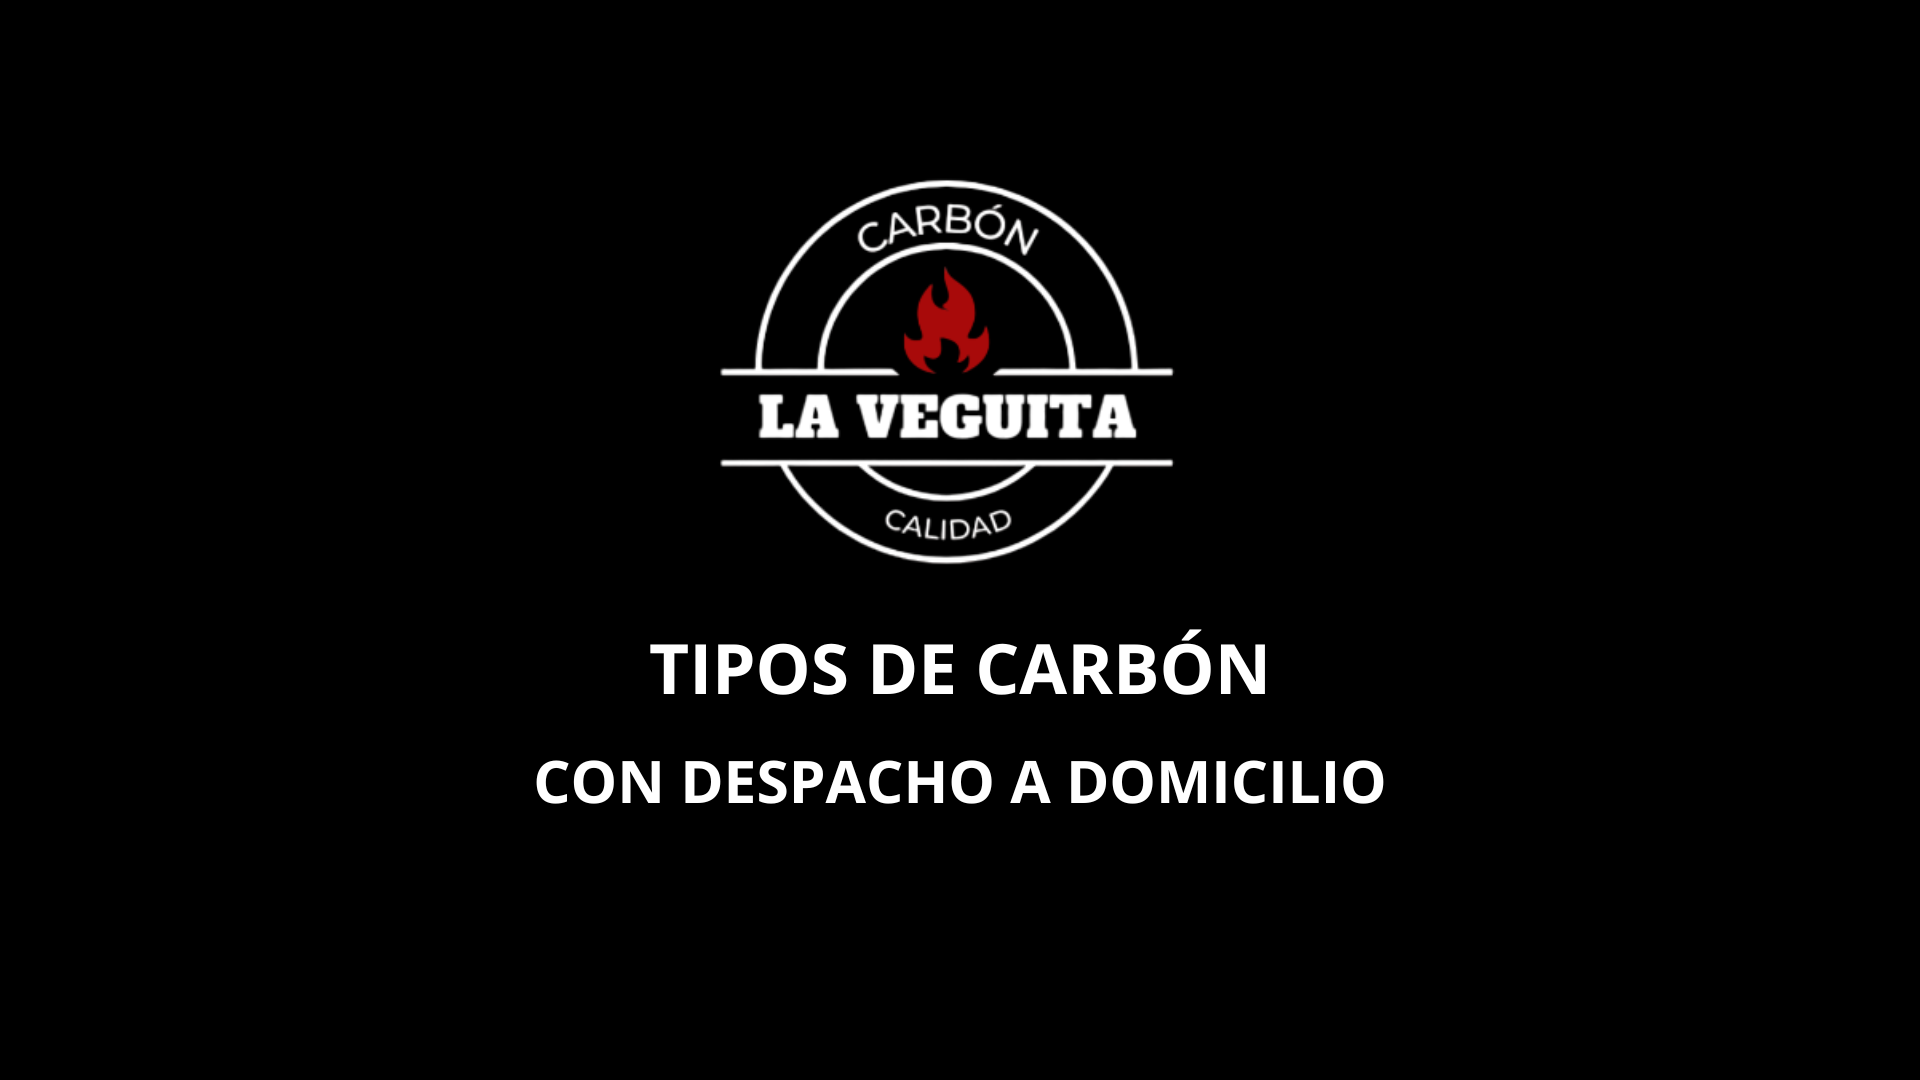
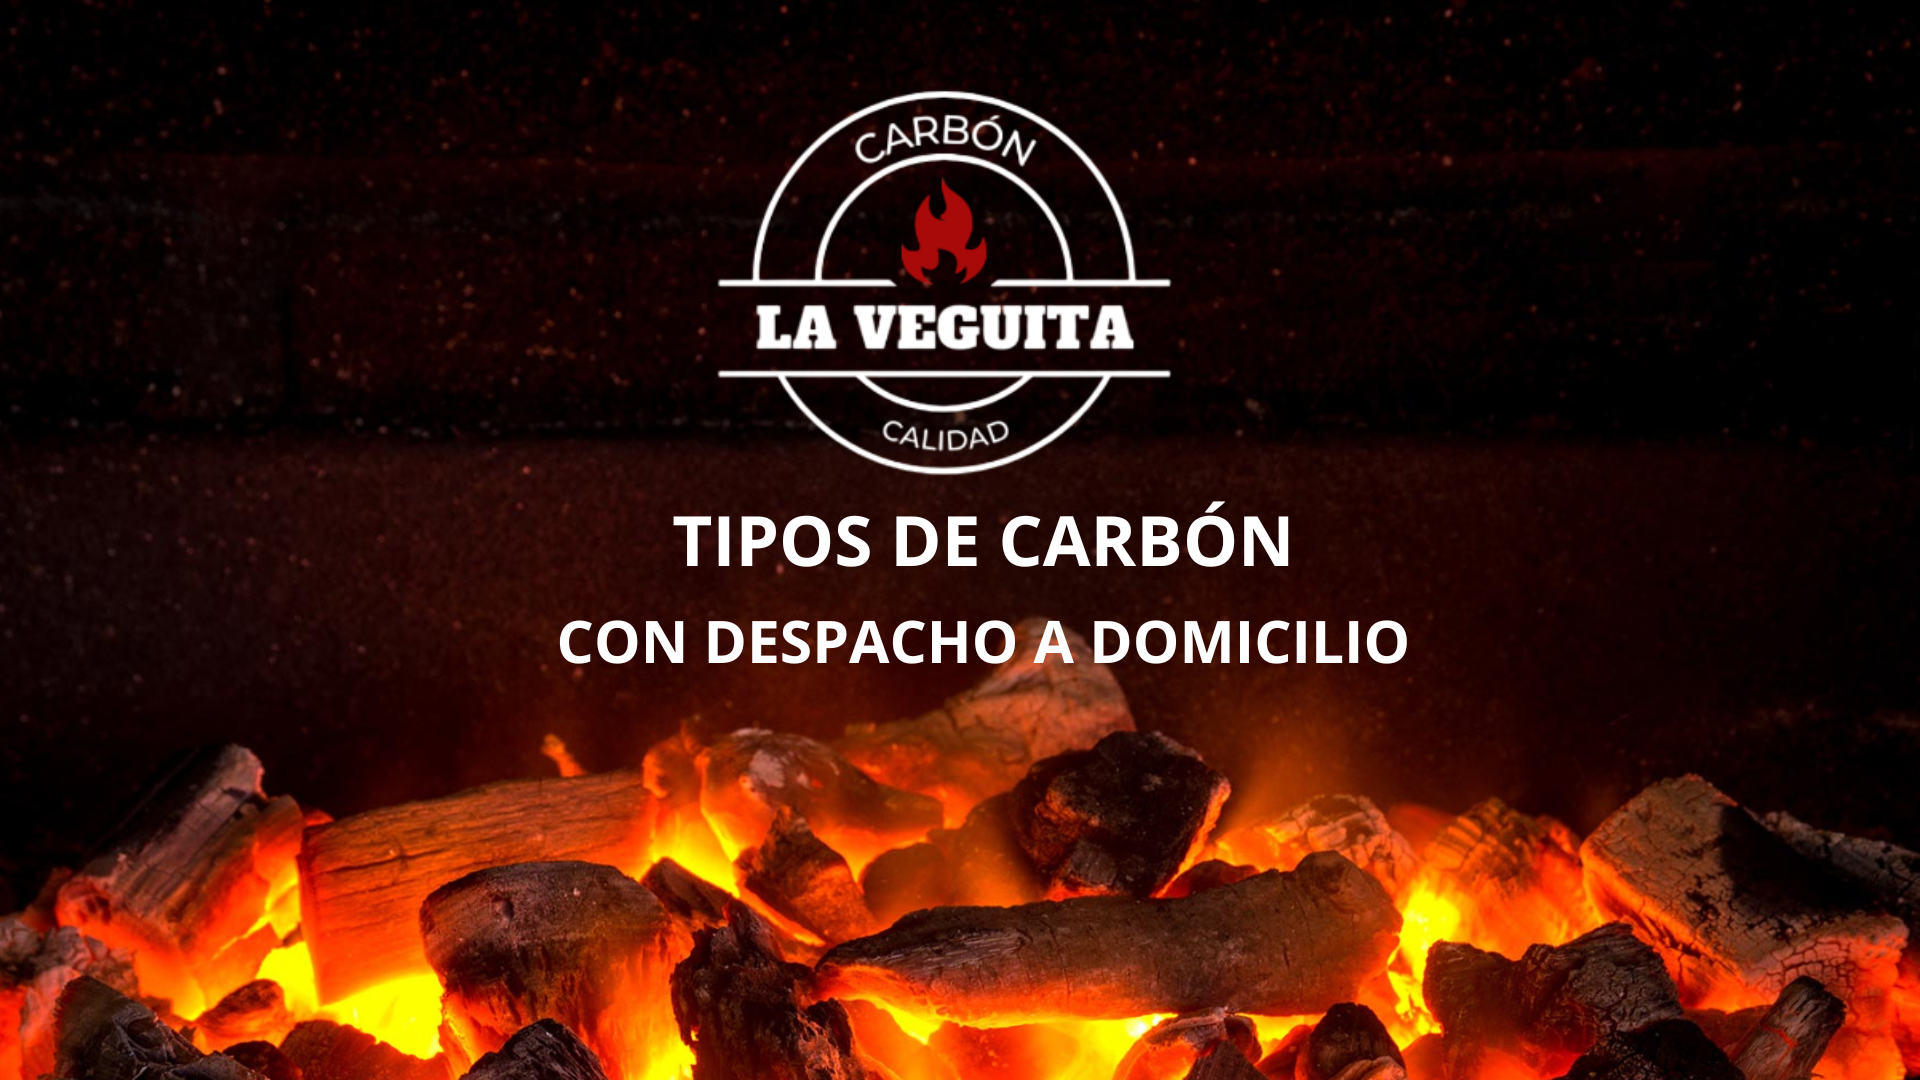
12 arreglo

diff --git a/css/style.css b/css/style.css
@@ -26,7 +26,7 @@ body {
   height: auto; 
 }
 
-/* Responsive styles */
+/* MEDIA QUERIE NAVBAR*/
 @media (max-width: 600px) {
   .main-navbar {
     padding: 10px 0; 
@@ -64,7 +64,7 @@ body {
 
 
 
-
+/* IMAGEN TIPOS DE CARBÓN */
 
 
 
@@ -78,12 +78,12 @@ body {
 }
 
 .section-image {
-  padding: 20px;
+  
   width: 100%;
   max-width: 800px;
-  height: auto; /* Mantener la proporción de la imagen */
-  border-top: 2px solid #56262b;
-  border-bottom: 2px solid #56262b;
+  height: auto; 
+  border-top: 2px solid #ff8000;
+  border-bottom: 2px solid #ff8000;
 }
 
 .titulo_inner {
@@ -92,12 +92,12 @@ body {
   font-size: 2rem;
   margin: 20px 0 0 0;
   text-align: center;
-  border-bottom: 2px solid #56262b;
+  border-bottom: 2px solid #ff8000;
   width: 100%;
   max-width: 800px;
 }
 
-/* Responsive styles */
+/* MEDIA QUERIES TIPOS DE CARBÓN */
 @media (max-width: 600px) {
   .titulo_inner {
     font-size: 1.5rem;
@@ -128,25 +128,16 @@ body {
 
 
 
-
-
-
-
-
-
-
-.navbar-toggler {
-  background-color: transparent !important;
- 
-}
+/* CARDS PRODUCTOS */
 
 
 
 
 .main-container {
+  
   background-color: black;
   max-width: 1280px;
-  margin: 3rem auto;
+ 
   padding: 1rem;
 }
 
@@ -183,7 +174,7 @@ button.accent-button:hover {
 }
 
 .articles {
-  
+  background-color: black;
   display: grid;
   grid-template-columns: repeat(3, 1fr);
   grid-gap: 2.5rem;
@@ -326,11 +317,11 @@ button.accent-button:hover {
 
 
 
-/* Estilos para Flexbox */
+/* SECCIÓN PARRAFO */
 .flex-container {
-  margin: 3rem auto;
+ 
   padding: 50px;
-  background-color: #56262b;
+  background-color: black;
   color: white;
   display: flex;
   justify-content: center;
@@ -348,10 +339,10 @@ button.accent-button:hover {
 
 .descripcion {
   font-family: "Outfit", sans-serif;
-  white-space: nowrap; /* Evita que la descripción se divida en dos líneas en pantallas grandes */
+  white-space: nowrap; 
 }
 
-/* Responsivo para pantallas pequeñas */
+/* MEDIA QUERIES PARRAFO */
 @media (max-width: 600px) {
   .flex-container {
       flex-direction: column;
@@ -390,22 +381,16 @@ button.accent-button:hover {
 
 
 
-
-
-
-
-
-
-
-
-
-
-
+/* CONTAINER UBICACIONES, TIPS VIDEO */
 
 
 
 .container_video {
-  background-color: black;
+  background-image: url('../img/IMAGECARBON.jpeg');
+  background-size: cover;
+  background-position: center; /* Centra la imagen en el contenedor */
+    background-repeat: no-repeat;
+  width: 100%;
   display: flex;
   flex-direction: column;
   align-items: center;
@@ -419,28 +404,28 @@ button.accent-button:hover {
 /* Estilo para el título */
 .titulo_inner {
   font-family: "Outfit", sans-serif;
-  color: #56262b;
+  color: white;
   font-size: 2rem;
   margin-bottom: 20px;
   text-align: center;
-  border-bottom: 2px solid #56262b;
+  border-bottom: 2px solid #ff8000;
   width: 100%;
   max-width: 800px;
 }
 
-/* Estilo para el contenedor del video */
+
 .video_inner {
   width: 100%;
   max-width: 800px;
-  border: 2px solid #56262b;
+  border: 2px solid #ff8000;
 }
 
 .video_inner iframe {
   width: 100%;
-  height: 315px; /* Altura estándar de video en YouTube */
+  height: 315px; 
 }
 
-/* Estilos responsivos */
+/* MEDIA QUERIES */
 @media (max-width: 600px) {
   .titulo_inner {
       font-size: 1.5rem;
@@ -453,7 +438,7 @@ button.accent-button:hover {
     }
  }
   .video_inner iframe {
-      height: 250px; /* Ajusta la altura del video para pantallas más pequeñas */
+      height: 250px; 
   }
 }
 
@@ -475,12 +460,12 @@ button.accent-button:hover {
 
 
 
-
+/* TITULO 2 */
 
 .titulo_inner-2 {
   font-family: "Outfit", sans-serif;
   font-size: 2rem;
-  color: #56262b;
+  color: white;
   margin-bottom: 20px;
   text-align: center;
   width: 100%;
@@ -499,7 +484,7 @@ button.accent-button:hover {
 
 
 
-/* FOOTER */
+/* CONTACTO WHATSAPP */
 
 
 .newsletter-subscribe {
@@ -565,6 +550,26 @@ padding: 20px;
   background-color: #0056b3;
   border-color: #56262b;
 }
+
+
+
+
+
+
+
+
+
+
+
+
+
+
+
+
+
+
+/* FOOTER */
+
 
 
 
@@ -991,12 +996,10 @@ img {
   margin-bottom: 20px;
 }
 
-.main-container {
-  
-  width: 90%;
-  max-width: 1200px;
-  padding: 20px;
-  border-radius: 8px;
+.main-container-2 {
+  background-color: black;
+  width: 100%;
+
 }
 
 .main-grid {
@@ -1031,6 +1034,7 @@ img {
 
 .main-contact span {
   display: block;
+  color: #888;
   font-weight: bold;
   margin-bottom: 5px;
 }

diff --git a/index.html b/index.html
@@ -39,7 +39,7 @@
 
 
 
-    
+
 
 <!-- NAVBAR -->
 
@@ -423,29 +423,29 @@
 
 <!-- CONTACTOS -->
 
-    <div class="main-container">
+    <div class="main-container-2">
         <div class="main-grid">
           <div class="main-sector">
-            <h2>SECTOR LO BARNECHEA,</h2>
-            <p>LOS CONDES, VITACURA</p>
+            <h2>PJE PENCO 0846,</h2>
+            <p>SAN BERNARDO</p>
             <div class="main-contact">
-              <span>Álvaro</span>
-              <a href="tel:+56981575137">+56 9 8157 5137</a>
+              <span>Angelica</span>
+              <a href="tel:+56981575137">+56 9 8839 6185</a>
             </div>
           </div>
           
           <div class="main-sector">
-            <h2>SECTOR PROVIDENCIA,</h2>
-            <p>ÑUÑOA, LA REINA Y MACUL</p>
+            <h2>ARBOLEDA SUR 0583,</h2>
+            <p>QUILICURA</p>
             <div class="main-contact">
-              <span>Álvaro</span>
-              <a href="tel:+56981575137">+56 9 8157 5137</a>
+              <span>Angelica</span>
+              <a href="tel:+56981575137">+56 9 8839 6185</a>
             </div>
           </div>
           
           <div class="main-sector">
-            <h2>SECTOR NORTE SANTIAGO,</h2>
-            <p>(HUECHURABA, COLINA Y ALREDEDORES, Y OTROS)</p>
+            <h2>HORARIOS DE ATENCIÓN</h2>
+            <p>09:00 HS A 19:00 HS</p>
             <div class="main-contact">
               <span>Sebastián</span>
               <a href="tel:+56975586117">+56 9 7558 6117</a>
